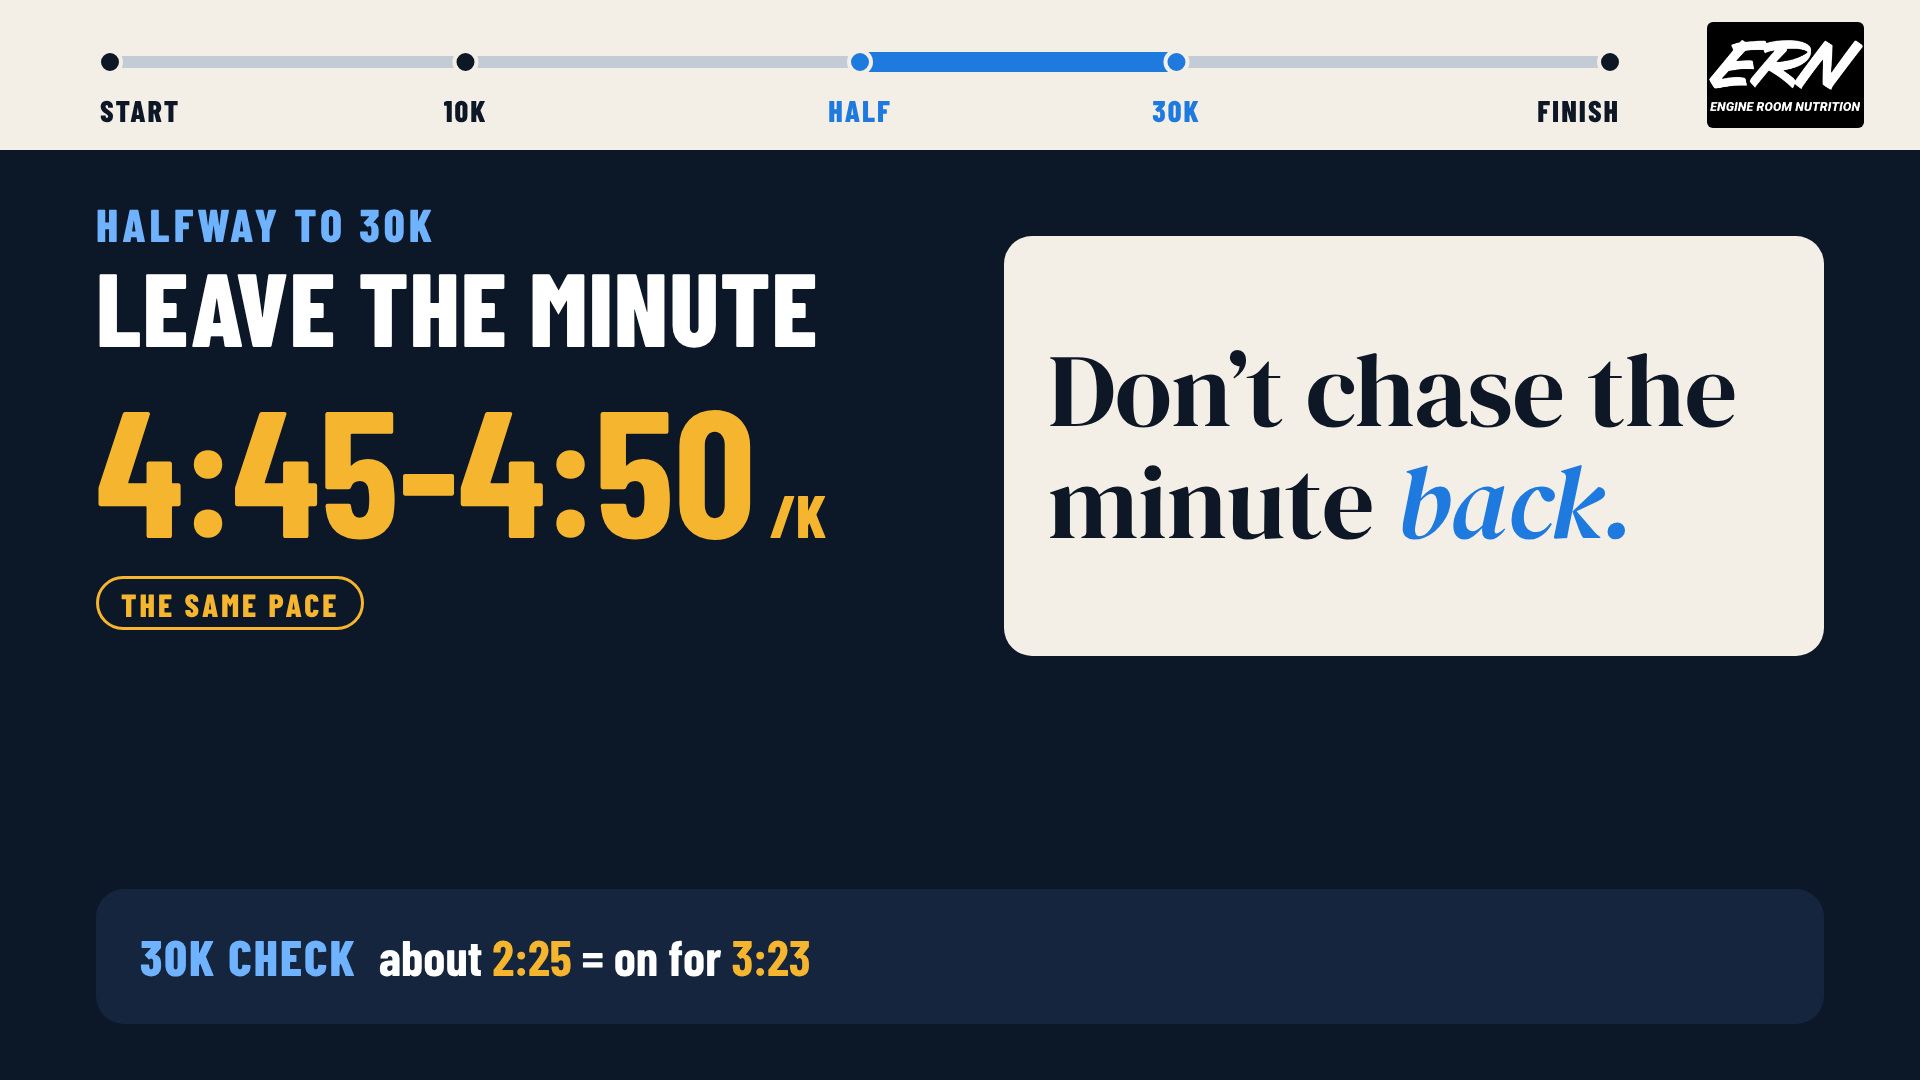
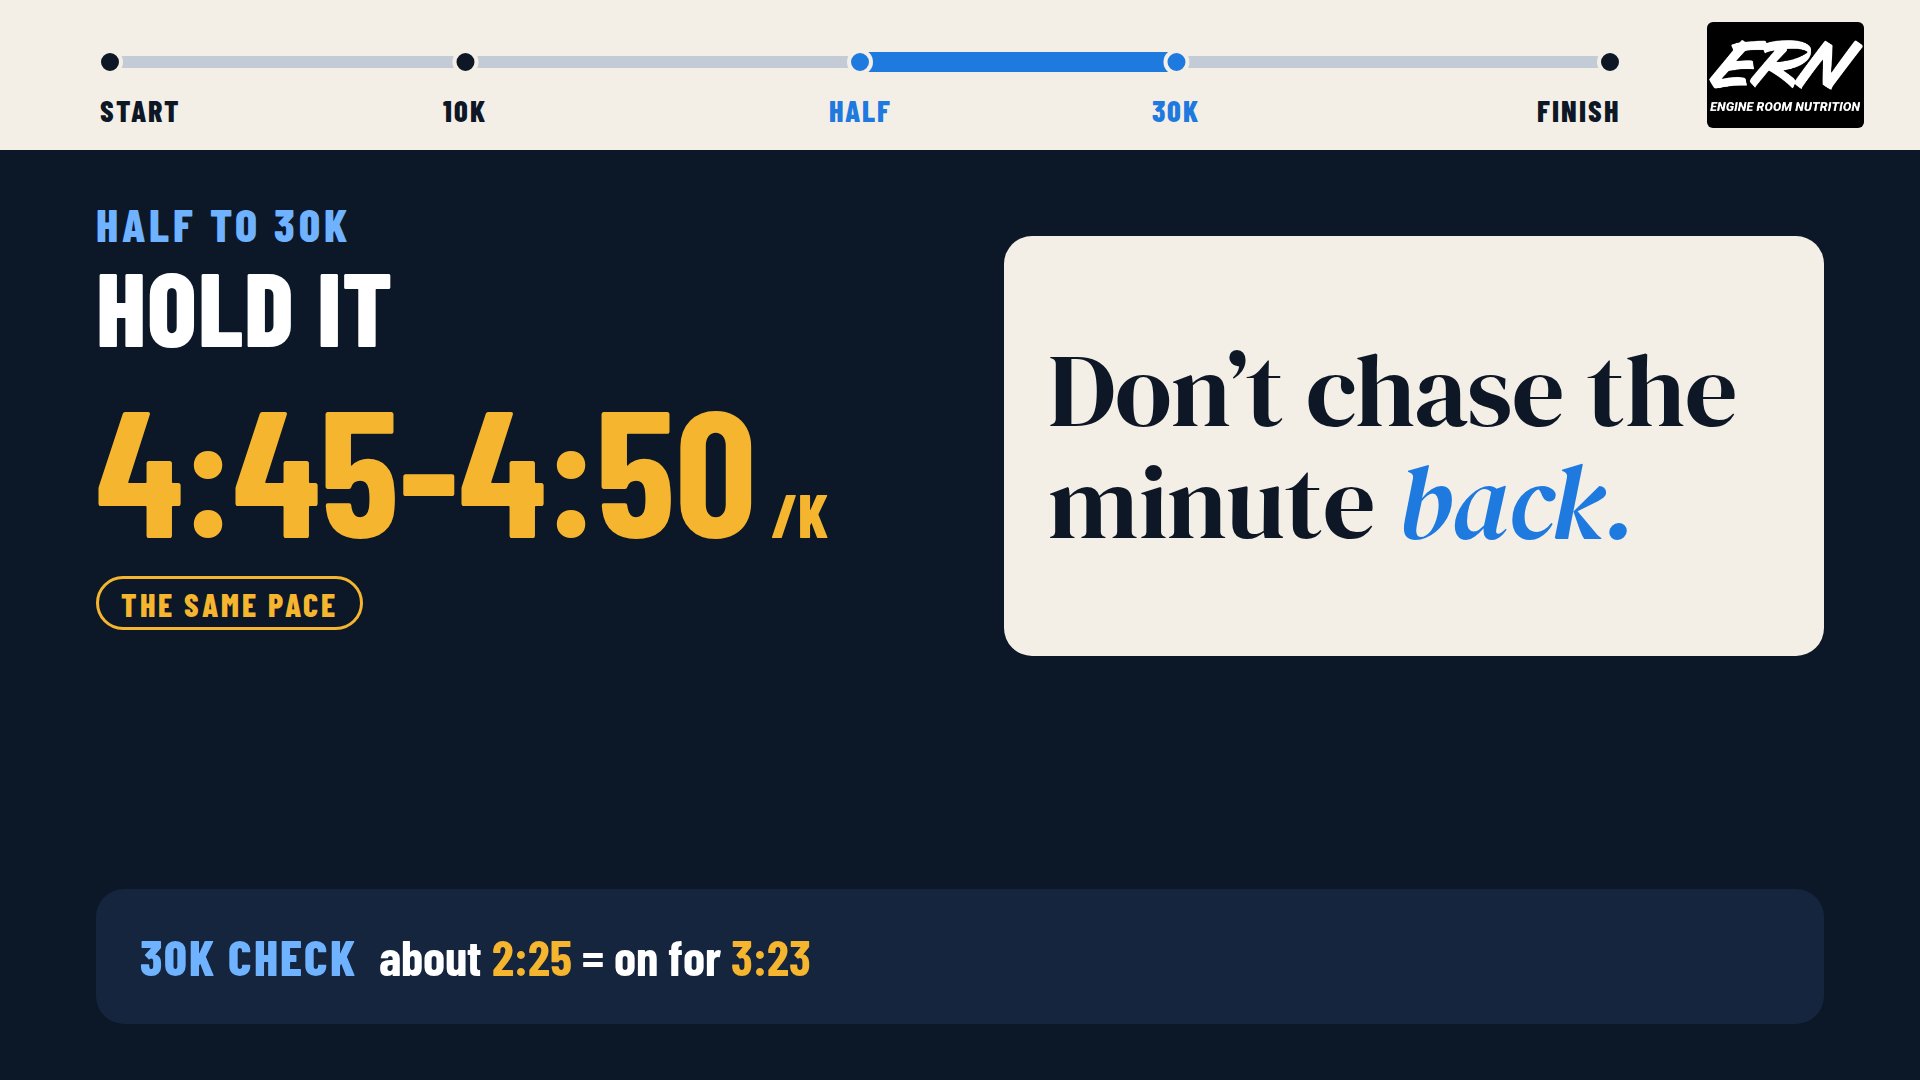
3:23 plan frames: headings match the shorter markers
Claude-Session: https://claude.ai/code/session_01C5bFwjsy7wubJR84HAMdDJ

diff --git a/motion/plan-frames/plan-323.html b/motion/plan-frames/plan-323.html
@@ -112,7 +112,7 @@ const FRAMES={
    </div>`},
  2:{s:[10,KM/2],h:`
    <div style="position:absolute;left:0;top:0;width:860px">
-     <div class="eyebrow">10K TO HALFWAY</div>
+     <div class="eyebrow">10K TO HALF</div>
      <div class="head">GOAL PACE</div>
      <div class="pace"><span class="n">4:45-4:50</span><span class="u">/K</span></div>
      <div class="mi">(7:39-7:47 /mile)</div>
@@ -124,8 +124,8 @@ const FRAMES={
    <div class="card serif" style="position:absolute;left:0;right:0;bottom:0;font-size:60px">Halfway: about <b>1:43</b>, around a minute behind <b>3:23</b> pace</div>`},
  3:{s:[KM/2,30],h:`
    <div style="position:absolute;left:0;top:0;width:860px">
-     <div class="eyebrow">HALFWAY TO 30K</div>
-     <div class="head">LEAVE THE MINUTE</div>
+     <div class="eyebrow">HALF TO 30K</div>
+     <div class="head">HOLD IT</div>
      <div class="pace"><span class="n">4:45-4:50</span><span class="u">/K</span></div>
      <div class="chip" style="margin-top:26px">THE SAME PACE</div>
    </div>
@@ -134,7 +134,7 @@ const FRAMES={
    </div>
    <div class="card line" style="position:absolute;left:0;right:0;bottom:0"><span class="lab">30K CHECK</span><span>about <span class="n">2:25</span> = on for <span class="n">3:23</span></span></div>`},
  4:{s:[30,KM],h:`
-   <div class="eyebrow">30K TO THE FINISH</div>
+   <div class="eyebrow">30K: WHERE IT ENDED</div>
    <div style="display:flex;align-items:baseline;gap:34px"><div class="head">IF THE WALL COMES</div><div class="serif" style="font-size:60px;color:#6fb2ff"><em>in this order</em></div></div>
    <div style="position:absolute;left:0;right:0;bottom:0;top:250px;display:grid;grid-template-columns:1fr 1fr 1fr;gap:30px">
      ${[['1','Something sweet + something to drink',''],['2','15-20 s/K slower for 10 minutes, shorter, quicker steps',''],['3','Back to 4:45-4:50, one K at a time','blue']].map(([n,t,c])=>`
